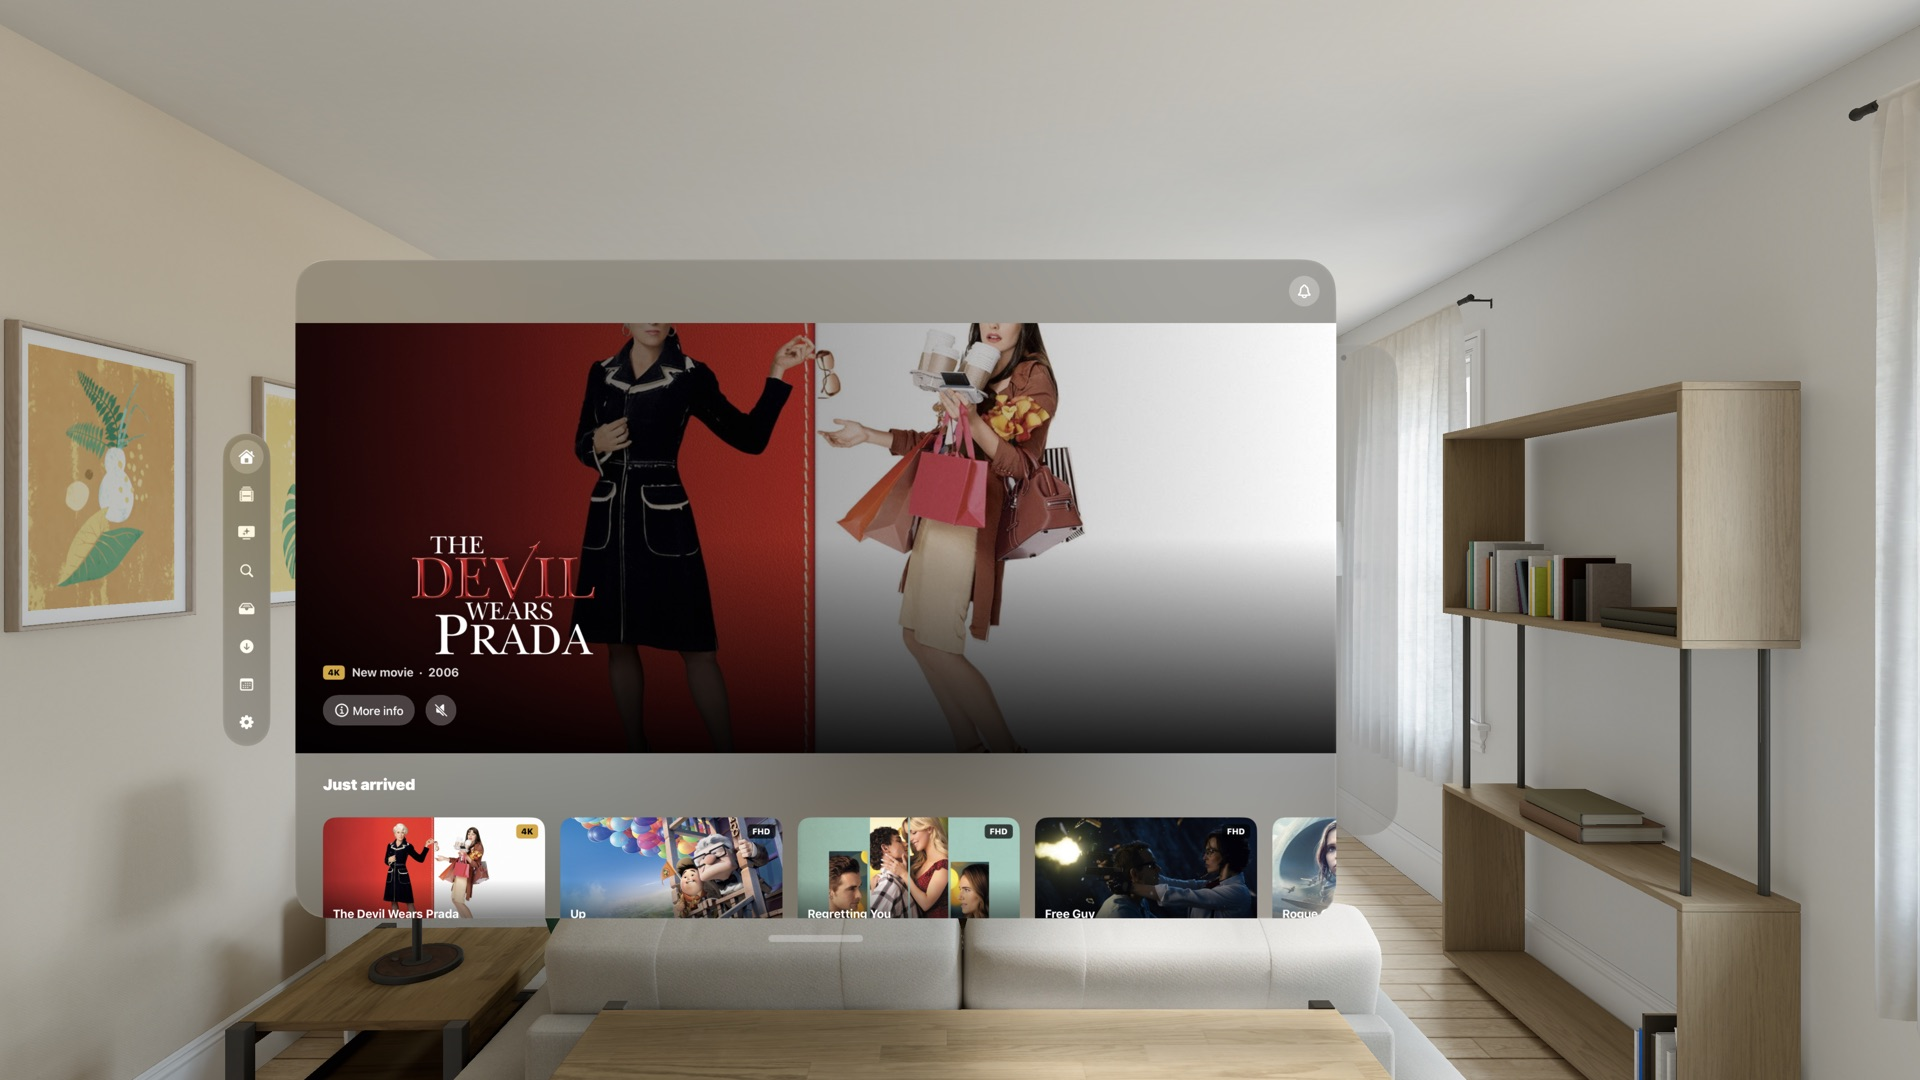
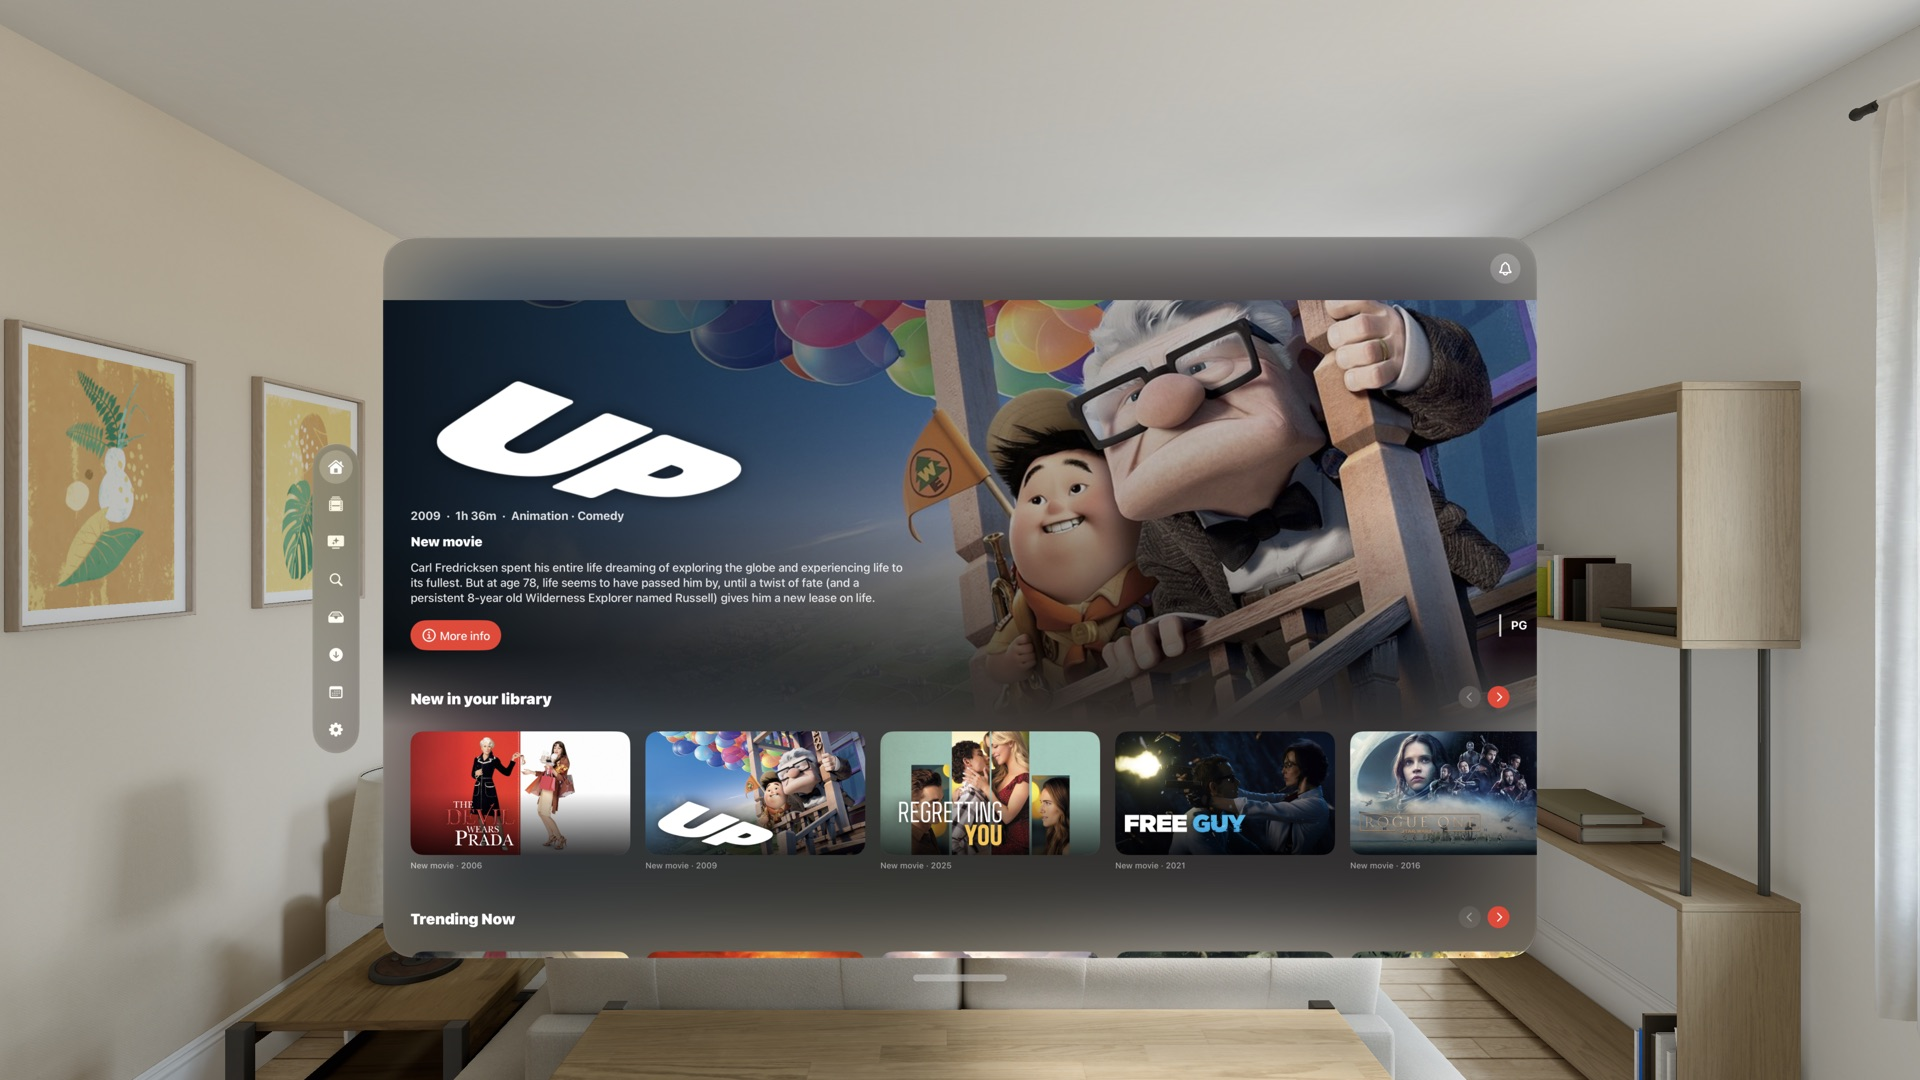
README: new design and fresh screenshots
Claude-Session: https://claude.ai/code/session_01QdE3NGUHe7CJgoPqwq5tN3

diff --git a/README.md b/README.md
@@ -6,13 +6,14 @@ Not affiliated with the HolyArrs project.
 
 | Apple Vision Pro | Apple TV |
 |---|---|
-| ![Explore on visionOS](Docs/screenshots/visionos-explore.jpg) | ![Title on tvOS](Docs/screenshots/tvos-title.jpg) |
-| ![Library on visionOS](Docs/screenshots/visionos-library.jpg) | ![Library on tvOS](Docs/screenshots/tvos-library.jpg) |
-| ![Title on visionOS](Docs/screenshots/visionos-title-billboard.jpg) | ![Search on tvOS](Docs/screenshots/tvos-searchq.jpg) |
+| ![Home on visionOS](Docs/screenshots/visionos-home.jpg) | ![Home on tvOS](Docs/screenshots/tvos-home.jpg) |
+| ![Explore on visionOS](Docs/screenshots/visionos-explore.jpg) | ![Explore on tvOS](Docs/screenshots/tvos-explore.jpg) |
+| ![Title on visionOS](Docs/screenshots/visionos-title-billboard.jpg) | ![Title on tvOS](Docs/screenshots/tvos-title.jpg) |
+| ![Library on visionOS](Docs/screenshots/visionos-library.jpg) | ![Search on tvOS](Docs/screenshots/tvos-searchq.jpg) |
 
 ## Features
 
-- **Home**: what just arrived, requests waiting for your approval, your requests, new seasons, following, coming soon, trending, library totals and messages.
+- **Home**, Netflix style: a featured billboard (a recent arrival with its logo, headline, overview, rating and a muted trailer preview), then rows of landscape logo tiles: Continue Watching and Next Up with progress bars (one click plays), New in your library, Trending Now, New seasons, Following and Coming soon, plus your requests, approvals and library totals.
 - **Library**: Continue watching and Next up from Jellyfin (one click plays), then every movie and show in HolyArrs with sort and filter. 4K / FHD / HD / SD marks on everything you have.
 - **Explore**: a full-bleed billboard with a muted trailer preview, your personal rows, browse by genre and category, and New & Popular with top-10 rows.
 - **Search**: your library first, then TMDB movies, shows and people.
@@ -23,9 +24,16 @@ Not affiliated with the HolyArrs project.
 - **Calendar**: upcoming episodes and movie dates as cards, grouped by day.
 - **Settings**: server, account, Jellyfin connection, autoplay toggles, sign out.
 
+### Design
+
+- Cinema-dark look with HolyArrs red as the accent.
+- Ambient backdrop: a blurred, tinted picture of the current title behind every page (it follows focus on Apple TV).
+- Full-bleed billboards with muted, looping trailer previews (Settings can turn previews off).
+- Netflix-style rows of landscape tiles with title logos, 4K / FHD / HD / SD marks and status badges.
+
 ### Platform design
 
-- **visionOS**: tab ornament, glass panels, gaze highlight on every card and row, full-window player that docks in environments.
+- **visionOS**: tab ornament, a custom dark window, gaze highlight on every card and row, row arrows and draggable scroll bars for mouse and trackpad, full-window player that docks in environments.
 - **tvOS**: top tab bar, focus-driven card buttons, large type, the standard tvOS player; the backdrop follows focus.
 - **iOS / iPadOS**: tab bar on iPhone, sidebar or top tabs on iPad, compact cards on iPhone, full-screen player with Picture in Picture.
 
